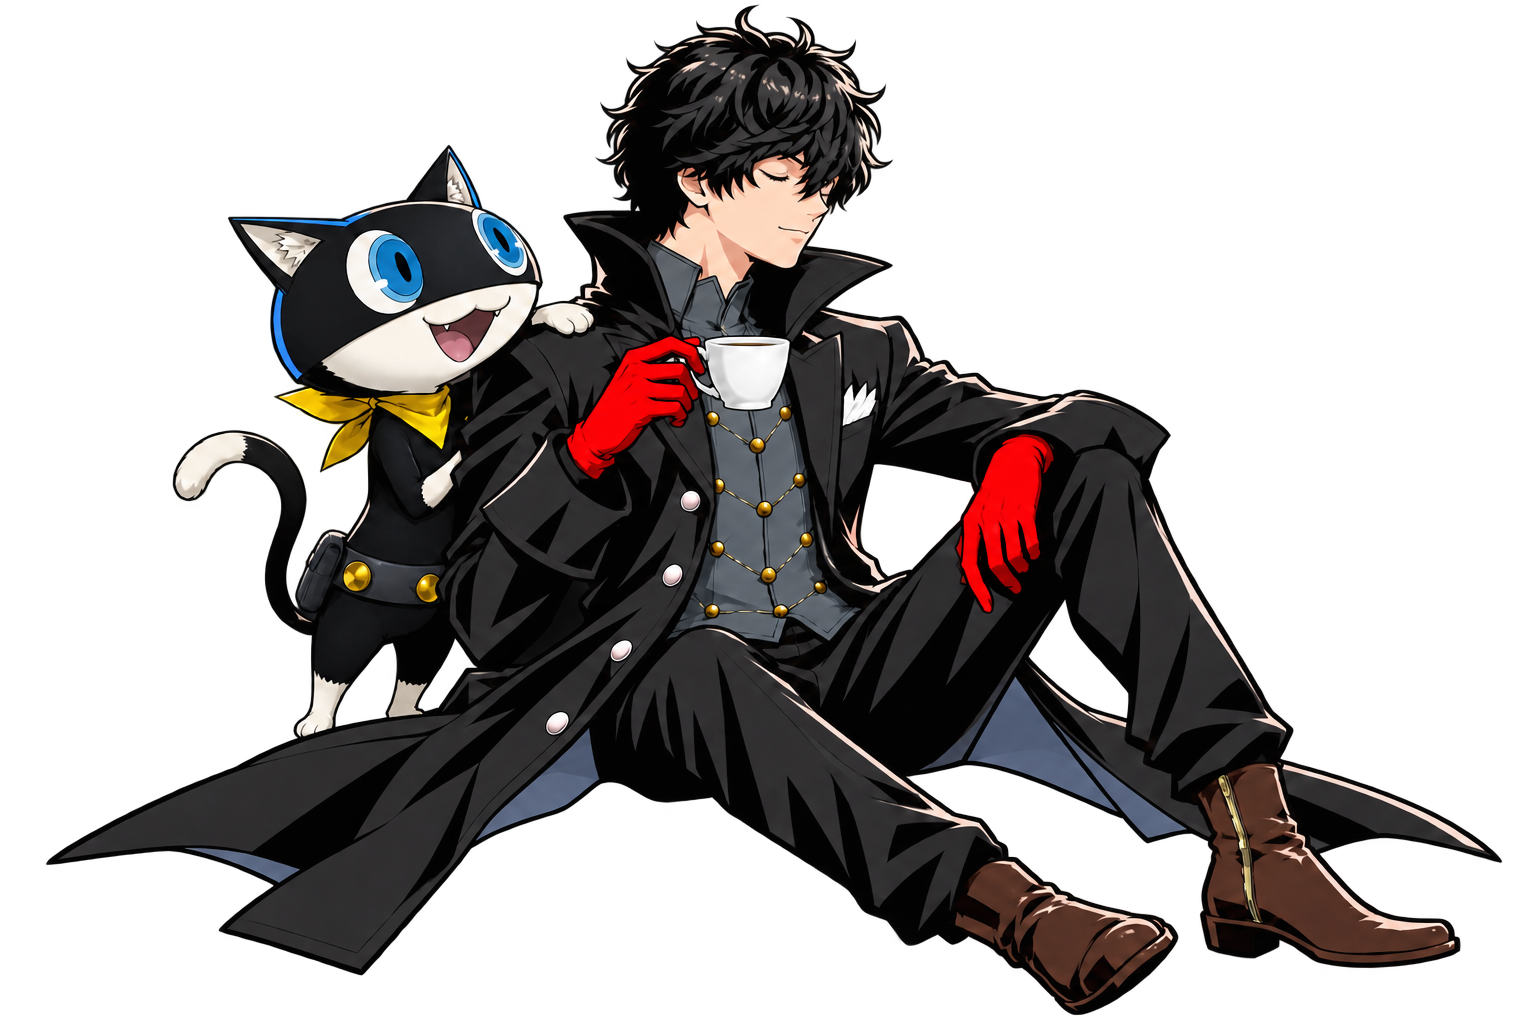
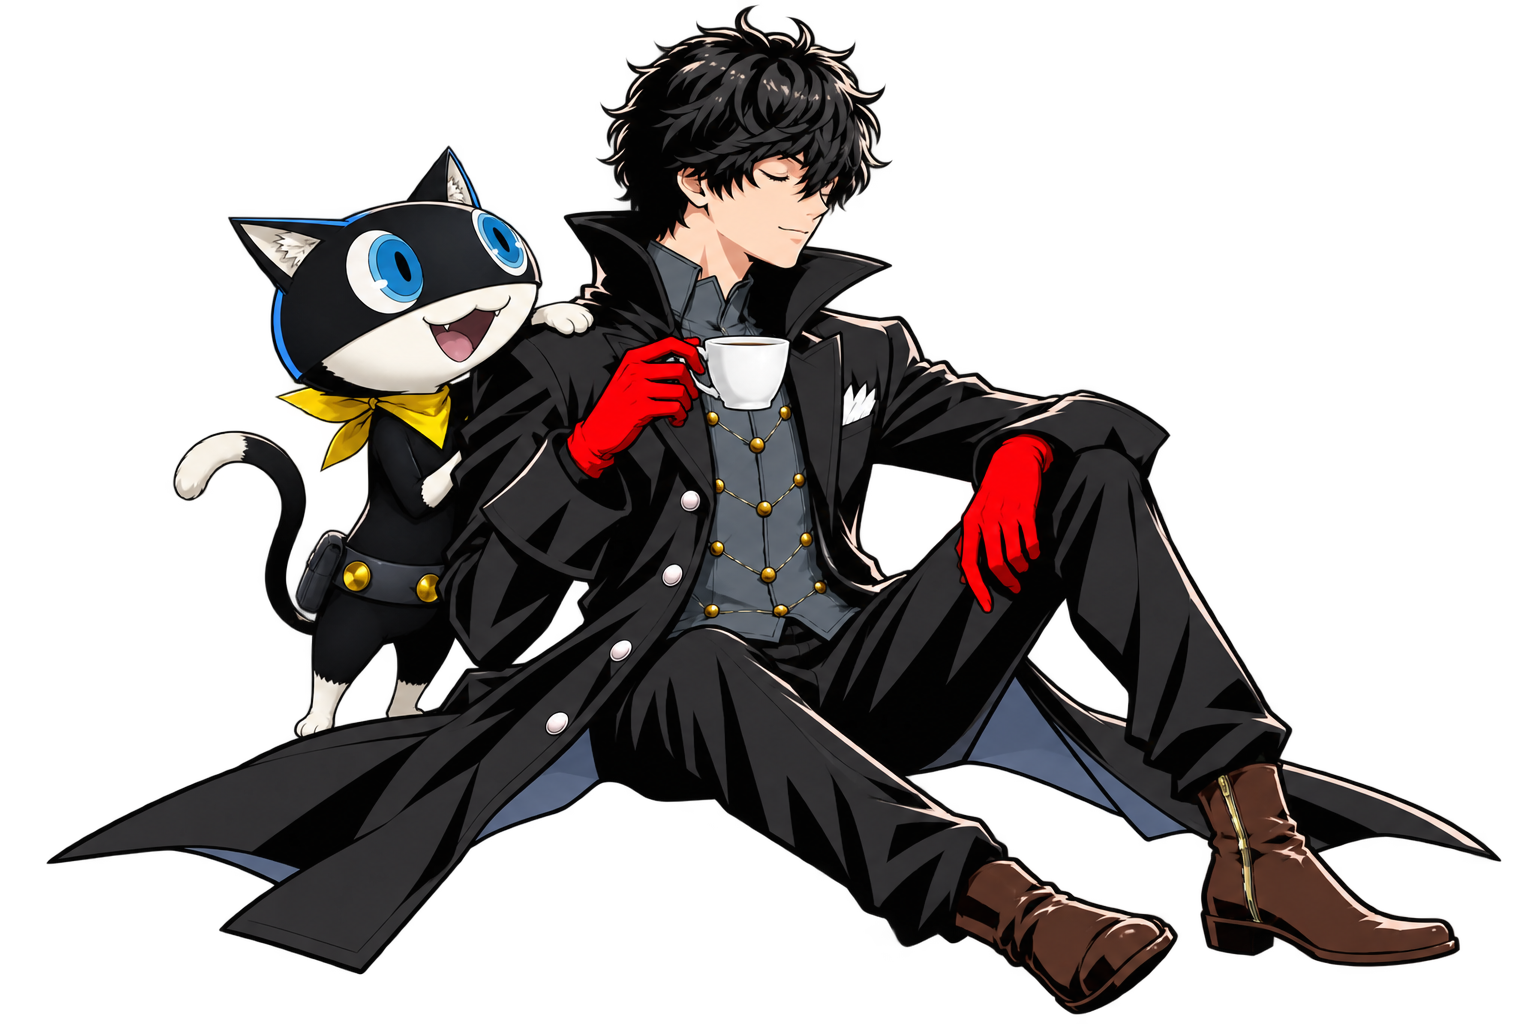
art: P5 rest-site blinks for Joker and Morgana - only the eyes taken from the generated frames
Claude-Session: https://claude.ai/code/session_01Nam5m2bn9ofCCWTGM6fwcN

diff --git a/tools/p5/blink_patch.py b/tools/p5/blink_patch.py
@@ -6,47 +6,67 @@ areas copied in (feathered ellipses, skin tone matched to idle). Writes the full
 art/p5/poses/idle_blink_a.png (the raw generation is kept as idle_blink_a_raw.png) and the small
 patch art/p5/poses/idle_blink_patch.png + .json (its position on idle_a3) for the rig.
     python tools/p5/blink_patch.py
+The rest-site picture has two blinkers (Joker, Morgana), each from its own generated closed-eye frame:
+    python tools/p5/blink_patch.py rest
 """
 import json
+import sys
 from pathlib import Path
 import numpy as np
 from PIL import Image, ImageFilter
 
 P = Path(__file__).resolve().parents[2] / 'art/p5/poses'
-# (cx, cy, rx, ry) on the 1024x1536 source canvas: near (visible) eye, far eye beside the hair
-EYES = [(577, 135, 34, 20), (614, 146, 13, 11)]
+# name -> (base, generated closed-eye frame, eye ellipses (cx, cy, rx, ry) on the base canvas[, match skin])
+# Morgana has no skin round the eyes (black head), so his tone is not matched; the generated frame also left
+# faint grey rings where his open eyes were, so inside his eye areas every dark pixel is set to the head black.
+JOBS = {
+    'idle_blink_a': ('idle_a3', 'idle_blink_a_raw', [(577, 135, 34, 20), (614, 146, 13, 11)]),
+    'rest_sit_d_A_blink_joker': ('rest_sit_d_A', 'rest_sit_d_A_blink_joker_raw', [(774, 171, 34, 19), (828, 189, 13, 12)]),
+    'rest_sit_d_A_blink_mona': ('rest_sit_d_A', 'rest_sit_d_A_blink_mona_raw', [(385, 273, 58, 58), (500, 240, 46, 48)], False),
+}
 FEATHER = 4
 
 
-def main():
-    raw = P / 'idle_blink_a_raw.png'
+def blink(name, base, raw, eyes, match=True):
+    raw = P / f'{raw}.png'
     if not raw.exists():
-        (P / 'idle_blink_a.png').rename(raw)
-    idle = np.array(Image.open(P / 'idle_a3.png').convert('RGBA')).astype(float)
+        (P / f'{name}.png').rename(raw)
+    idle = np.array(Image.open(P / f'{base}.png').convert('RGBA')).astype(float)
     gen = np.array(Image.open(raw).convert('RGBA')).astype(float)
     m = Image.new('L', (idle.shape[1], idle.shape[0]), 0)
     from PIL import ImageDraw
     d = ImageDraw.Draw(m)
-    for cx, cy, rx, ry in EYES:
+    for cx, cy, rx, ry in eyes:
         d.ellipse([cx - rx, cy - ry, cx + rx, cy + ry], fill=255)
     m = np.array(m.filter(ImageFilter.GaussianBlur(FEATHER))).astype(float) / 255
     # match the generated skin tone to idle in a ring around the eyes
     ring = (m > 0.02) & (m < 0.6)
     skin = ring & (idle[..., 0] > 200) & (idle[..., 1] > 160)
-    gain = idle[skin][:, :3].mean(0) / np.maximum(gen[skin][:, :3].mean(0), 1)
+    gain = idle[skin][:, :3].mean(0) / np.maximum(gen[skin][:, :3].mean(0), 1) if match and skin.sum() > 50 else np.ones(3)
     gen[..., :3] = np.clip(gen[..., :3] * gain, 0, 255)
+    if not match:
+        inside = (m > 0.05) & (gen[..., :3].mean(2) < 150)
+        head = (m == 0) & (idle[..., :3].mean(2) < 60) & (idle[..., 3] > 200)
+        ys, xs = np.nonzero(m > 0.05)
+        near = np.zeros_like(head)
+        near[ys.min() - 40:ys.max() + 40, xs.min() - 40:xs.max() + 40] = True
+        gen[inside, :3] = np.median(idle[head & near][:, :3], 0)
     out = idle.copy()
     out[..., :3] = idle[..., :3] * (1 - m[..., None]) + gen[..., :3] * m[..., None]
-    Image.fromarray(out.astype(np.uint8)).save(P / 'idle_blink_a.png')
+    Image.fromarray(out.astype(np.uint8)).save(P / f'{name}.png')
     ys, xs = np.nonzero(m > 0.01)
     x0, x1, y0, y1 = xs.min(), xs.max() + 1, ys.min(), ys.max() + 1
     patch = out[y0:y1, x0:x1].copy()
     patch[..., 3] = np.minimum(patch[..., 3], m[y0:y1, x0:x1] * 255)
-    Image.fromarray(patch.astype(np.uint8)).save(P / 'idle_blink_patch.png')
-    (P / 'idle_blink_patch.json').write_text(json.dumps({'base': 'idle_a3', 'x': int(x0), 'y': int(y0),
-                                                         'w': int(x1 - x0), 'h': int(y1 - y0)}, indent=1))
-    print('patch', x0, y0, x1 - x0, y1 - y0, 'skin gain', gain.round(3))
+    pname = 'idle_blink_patch' if name == 'idle_blink_a' else name + '_patch'
+    Image.fromarray(patch.astype(np.uint8)).save(P / f'{pname}.png')
+    (P / f'{pname}.json').write_text(json.dumps({'base': base, 'x': int(x0), 'y': int(y0),
+                                                 'w': int(x1 - x0), 'h': int(y1 - y0)}, indent=1))
+    print(name, 'patch', x0, y0, x1 - x0, y1 - y0, 'skin gain', gain.round(3))
 
 
 if __name__ == '__main__':
-    main()
+    rest = len(sys.argv) > 1 and sys.argv[1] == 'rest'
+    for n, job in JOBS.items():
+        if n.startswith('rest_') == rest:
+            blink(n, *job)
